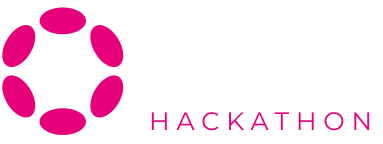
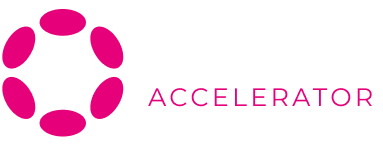
Update Programs

diff --git a/src/components/Slider.js b/src/components/Slider.js
@@ -172,7 +172,7 @@ function Programs() {
           <a href="https://www.hkweb3month.com/hackathon"><Image src={whx} alt="whx"/></a>
           </div>
           <div className="ps-content">
-          <a href="https://www.encode.club/polkadot-hackathon"><Image src={exp} alt="exp"/></a>
+          <a href="https://www.encode.club/encode-polkadot-accelerator-2023"><Image src={exp} alt="exp"/></a>
           </div>
           <div className="ps-content">
           <a href="https://polkadot.network/development/blockchain-academy/"><Image src={pba} alt="pba"/></a>
